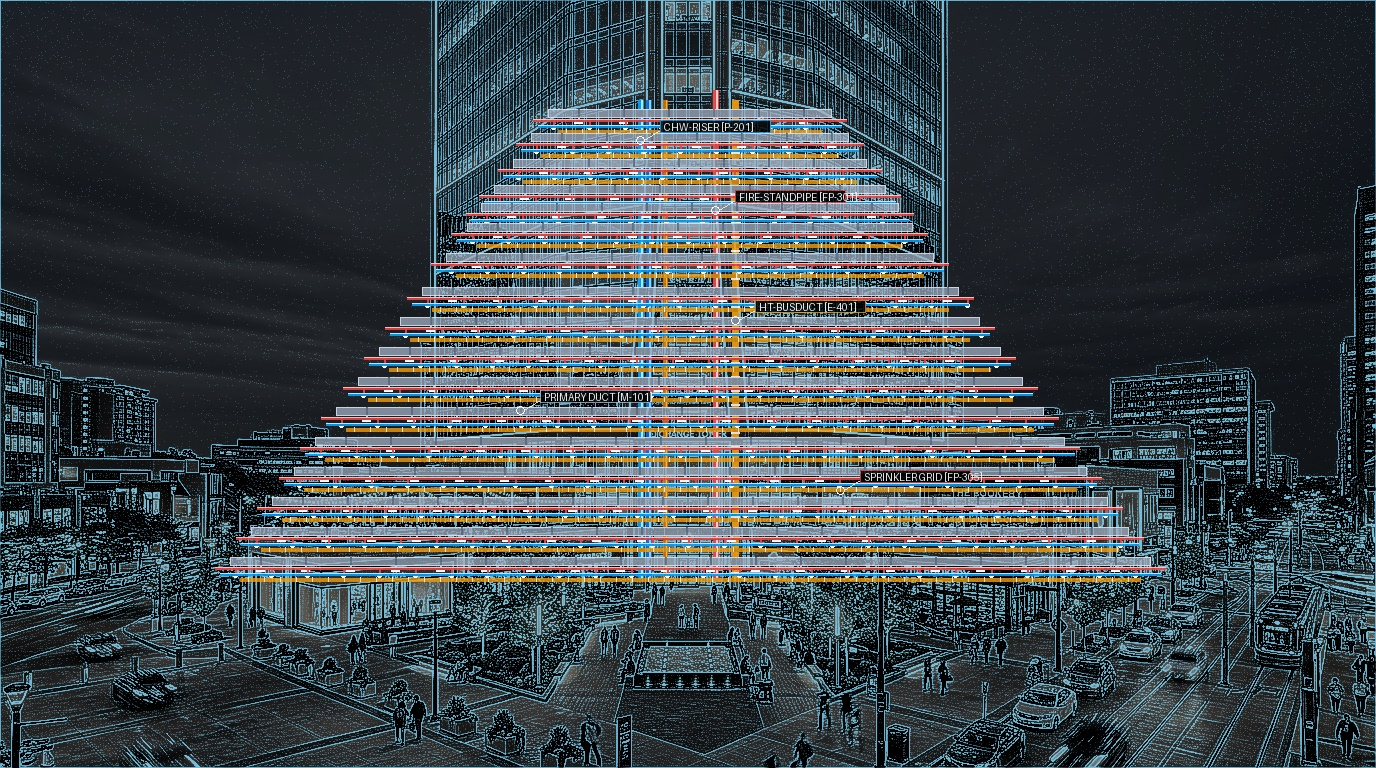
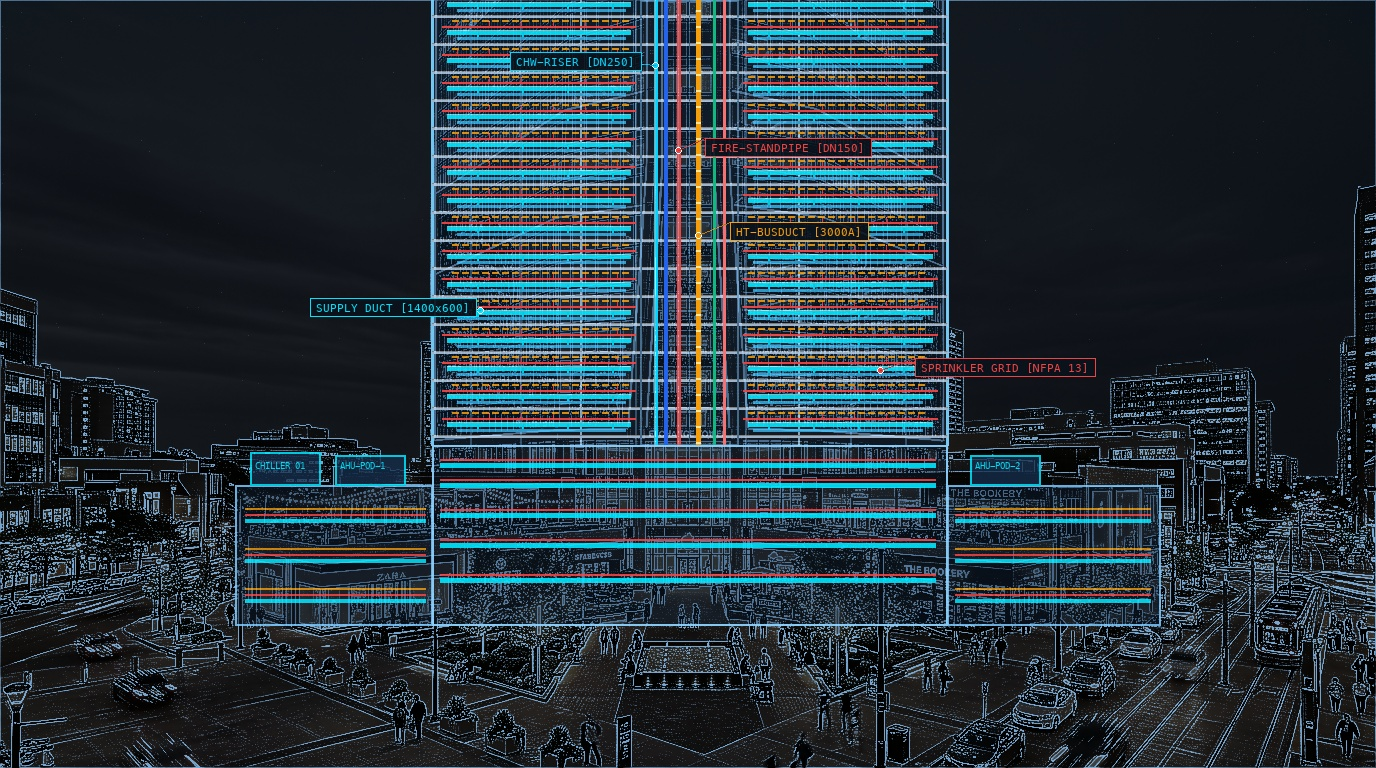
Fix skeleton building shape to true skyscraper profile and synchronize laser scanning animation with phase-locked HUD

diff --git a/css/styles.css b/css/styles.css
@@ -776,8 +776,10 @@ button, input, select, textarea {
   height: 100%;
   z-index: 4;
   clip-path: inset(0 0 100% 0);
-  animation: skeletonScanReveal 7s cubic-bezier(0.4, 0, 0.2, 1) infinite;
+  -webkit-clip-path: inset(0 0 100% 0);
+  animation: skeletonScanReveal 6.5s cubic-bezier(0.4, 0, 0.2, 1) infinite;
   pointer-events: none;
+  will-change: clip-path;
 }
 
 .spotlight-skeleton-image {
@@ -785,7 +787,7 @@ button, input, select, textarea {
   height: 100%;
   object-fit: cover;
   display: block;
-  filter: brightness(1.02) contrast(1.12);
+  filter: brightness(1.05) contrast(1.15);
 }
 
 /* High-Tech Laser Beam Scanner Line */
@@ -793,11 +795,12 @@ button, input, select, textarea {
   position: absolute;
   left: 0;
   right: 0;
-  top: 0;
-  height: 0;
+  top: 0%;
+  height: 3px;
   pointer-events: none;
-  z-index: 8;
-  animation: laserBeamMove 7s cubic-bezier(0.4, 0, 0.2, 1) infinite;
+  z-index: 25;
+  animation: laserBeamMove 6.5s cubic-bezier(0.4, 0, 0.2, 1) infinite;
+  will-change: top, opacity;
 }
 
 .spotlight-laser-line {
@@ -805,33 +808,33 @@ button, input, select, textarea {
   top: 0;
   left: 0;
   right: 0;
-  height: 2.5px;
+  height: 3px;
   background: linear-gradient(90deg, 
     transparent 0%, 
-    var(--color-copper) 12%, 
+    #00E5FF 12%, 
     #FFFFFF 50%, 
-    var(--color-copper) 88%, 
+    #00E5FF 88%, 
     transparent 100%
   );
-  box-shadow: 0 0 12px #FFFFFF, 0 0 24px var(--color-copper), 0 0 35px rgba(201, 147, 90, 0.85);
+  box-shadow: 0 0 12px #FFFFFF, 0 0 24px #00E5FF, 0 0 35px rgba(0, 229, 255, 0.85);
 }
 
 .spotlight-laser-glow {
   position: absolute;
-  bottom: 0;
+  top: -14px;
   left: 0;
   right: 0;
-  height: 32px;
-  background: linear-gradient(0deg, rgba(201, 147, 90, 0.22) 0%, transparent 100%);
+  height: 30px;
+  background: linear-gradient(180deg, rgba(0, 229, 255, 0.22) 0%, transparent 100%);
   pointer-events: none;
 }
 
 .spotlight-laser-tag {
   position: absolute;
   right: 12px;
-  top: -12px;
+  top: -14px;
   background: #000000;
-  border: 1px solid var(--color-copper);
+  border: 1px solid #00E5FF;
   color: #FFFFFF;
   font-family: var(--font-mono);
   font-size: 9px;
@@ -850,33 +853,34 @@ button, input, select, textarea {
   width: 5px;
   height: 5px;
   border-radius: 50%;
-  background: #10B981;
-  box-shadow: 0 0 6px #10B981;
+  background: #00E5FF;
+  box-shadow: 0 0 6px #00E5FF;
   animation: beaconPulse 1.2s infinite ease-in-out;
 }
 
-/* Synchronized Keyframes for Laser Beam & Skeleton Reveal */
+/* 100% Synchronized Keyframes for Laser Beam & Skeleton Reveal */
 @keyframes laserBeamMove {
   0% {
     top: 0%;
     opacity: 0;
   }
-  4% {
+  3% {
+    top: 0%;
     opacity: 1;
   }
-  45% {
-    top: 100%;
+  47% {
+    top: calc(100% - 3px);
     opacity: 1;
   }
   50% {
-    top: 100%;
-    opacity: 0.85;
-  }
-  55% {
-    top: 100%;
+    top: calc(100% - 3px);
     opacity: 1;
   }
-  95% {
+  53% {
+    top: calc(100% - 3px);
+    opacity: 1;
+  }
+  97% {
     top: 0%;
     opacity: 1;
   }
@@ -887,14 +891,17 @@ button, input, select, textarea {
 }
 
 @keyframes skeletonScanReveal {
-  0%, 4% {
+  0%, 3% {
     clip-path: inset(0 0 100% 0);
+    -webkit-clip-path: inset(0 0 100% 0);
   }
-  45%, 55% {
+  47%, 53% {
     clip-path: inset(0 0 0% 0);
+    -webkit-clip-path: inset(0 0 0% 0);
   }
-  95%, 100% {
+  97%, 100% {
     clip-path: inset(0 0 100% 0);
+    -webkit-clip-path: inset(0 0 100% 0);
   }
 }
 

diff --git a/js/main.js b/js/main.js
@@ -728,17 +728,45 @@ document.addEventListener('DOMContentLoaded', () => {
     }
   }
 
-  // --- 14. Hero Scanner HUD Indicator Switcher ---
+  // --- 14. Hero Scanner HUD Indicator Switcher (Phase-Locked to CSS Animation) ---
+  const laserBeam = document.querySelector('.spotlight-laser-beam');
   const heroScanLabel = document.getElementById('heroScanLabel');
-  if (heroScanLabel) {
-    let scanPhase = false;
-    setInterval(() => {
-      scanPhase = !scanPhase;
-      if (scanPhase) {
-        heroScanLabel.innerHTML = '<span style="display:inline-block;width:6px;height:6px;border-radius:50%;background:#10B981;"></span><span>SCAN: MEP SKELETON (PLUMBING &amp; HVAC)</span>';
-      } else {
-        heroScanLabel.innerHTML = '<span style="display:inline-block;width:6px;height:6px;border-radius:50%;background:var(--color-copper);"></span><span>SCAN: ARCHITECTURAL EXTERIOR</span>';
+  const laserTagText = document.querySelector('.laser-tag-text');
+
+  if (laserBeam && heroScanLabel) {
+    let anim = null;
+    const getAnim = () => {
+      if (!anim && laserBeam.getAnimations) {
+        const anims = laserBeam.getAnimations();
+        if (anims.length > 0) anim = anims[0];
       }
-    }, 3500);
+      return anim;
+    };
+
+    let lastMode = '';
+    const updateHUD = () => {
+      const activeAnim = getAnim();
+      let isDownSweep = true;
+      if (activeAnim && typeof activeAnim.currentTime === 'number') {
+        const cycle = activeAnim.currentTime % 6500;
+        isDownSweep = cycle < 3250;
+      } else {
+        isDownSweep = (Date.now() % 6500) < 3250;
+      }
+
+      const currentMode = isDownSweep ? 'skeleton' : 'exterior';
+      if (currentMode !== lastMode) {
+        lastMode = currentMode;
+        if (isDownSweep) {
+          heroScanLabel.innerHTML = '<span class="hud-mode-dot" style="background:#00E5FF;box-shadow:0 0 8px #00E5FF;"></span><span>SCAN: MEP BIM SKELETON</span>';
+          if (laserTagText) laserTagText.textContent = 'MEP SCAN ACTIVE';
+        } else {
+          heroScanLabel.innerHTML = '<span class="hud-mode-dot" style="background:var(--color-copper);box-shadow:0 0 8px var(--color-copper);"></span><span>SCAN: ARCHITECTURAL EXTERIOR</span>';
+          if (laserTagText) laserTagText.textContent = 'EXTERIOR RESTORE';
+        }
+      }
+    };
+
+    setInterval(updateHUD, 100);
   }
 });

diff --git a/index.html b/index.html
@@ -20,7 +20,7 @@
   <link rel="preconnect" href="https://fonts.gstatic.com" crossorigin>
   <link href="https://fonts.googleapis.com/css2?family=Source+Code+Pro:wght@400;500;600;700&family=Source+Sans+3:ital,wght@0,300;0,400;0,500;0,600;0,700;0,800;0,900;1,300;1,400;1,600;1,700&family=Source+Sans+Pro:ital,wght@0,300;0,400;0,600;0,700;0,900;1,300;1,400;1,600;1,700&display=swap" rel="stylesheet">
 
-  <link rel="stylesheet" href="css/styles.css?v=36.0">
+  <link rel="stylesheet" href="css/styles.css?v=37.0">
 </head>
 <body>
 
@@ -195,7 +195,7 @@
 
             <!-- Internal MEP Engineering Skeleton Layer (Plumbing, HVAC, Electrical) -->
             <div class="spotlight-skeleton-wrapper" aria-hidden="true">
-              <img src="assets/project-commercial-skeleton.jpg?v=2.0" alt="Commercial office building 3D MEP BIM internal engineering skeleton showing plumbing and HVAC" class="spotlight-skeleton-image">
+              <img src="assets/project-commercial-skeleton.jpg?v=3.0" alt="Exchange Tower commercial building 3D MEP BIM internal engineering skeleton showing plumbing, HVAC ducts and fire protection" class="spotlight-skeleton-image">
             </div>
 
             <!-- Animated Laser Scanner Line with Beam Aura -->
@@ -209,10 +209,10 @@
             </div>
 
             <!-- HUD Scan Status Overlay -->
-            <div class="spotlight-hud-overlay">
+            <div class="spotlight-hud-overlay" aria-hidden="true">
               <span class="spotlight-hud-mode" id="heroScanLabel">
-                <span style="display:inline-block;width:6px;height:6px;border-radius:50%;background:#10B981;"></span>
-                <span>SCAN: MEP SKELETON</span>
+                <span class="hud-mode-dot"></span>
+                <span class="hud-mode-text">SCAN: MEP BIM SKELETON</span>
               </span>
               <span class="spotlight-hud-status">LOD 350 BIM</span>
             </div>
@@ -856,6 +856,6 @@
   </div>
 
   <!-- Scripts -->
-  <script src="js/main.js?v=35.0"></script>
+  <script src="js/main.js?v=36.0"></script>
 </body>
 </html>

diff --git a/career.html b/career.html
@@ -16,7 +16,7 @@
   <link rel="preconnect" href="https://fonts.gstatic.com" crossorigin>
   <link href="https://fonts.googleapis.com/css2?family=Source+Code+Pro:wght@400;500;600;700&family=Source+Sans+3:ital,wght@0,300;0,400;0,500;0,600;0,700;0,800;0,900;1,300;1,400;1,600;1,700&family=Source+Sans+Pro:ital,wght@0,300;0,400;0,600;0,700;0,900;1,300;1,400;1,600;1,700&display=swap" rel="stylesheet">
 
-  <link rel="stylesheet" href="css/styles.css?v=36.0">
+  <link rel="stylesheet" href="css/styles.css?v=37.0">
 </head>
 <body>
 
@@ -241,6 +241,6 @@
   </footer>
 
   <button class="back-to-top"><svg width="20" height="20" viewBox="0 0 24 24" fill="currentColor"><path d="M7.41 15.41L12 10.83l4.59 4.58L18 14l-6-6-6 6z"/></svg></button>
-  <script src="js/main.js?v=35.0"></script>
+  <script src="js/main.js?v=36.0"></script>
 </body>
 </html>

diff --git a/contact.html b/contact.html
@@ -17,7 +17,7 @@
   <link rel="preconnect" href="https://fonts.gstatic.com" crossorigin>
   <link href="https://fonts.googleapis.com/css2?family=Source+Code+Pro:wght@400;500;600;700&family=Source+Sans+3:ital,wght@0,300;0,400;0,500;0,600;0,700;0,800;0,900;1,300;1,400;1,600;1,700&family=Source+Sans+Pro:ital,wght@0,300;0,400;0,600;0,700;0,900;1,300;1,400;1,600;1,700&display=swap" rel="stylesheet">
 
-  <link rel="stylesheet" href="css/styles.css?v=36.0">
+  <link rel="stylesheet" href="css/styles.css?v=37.0">
 </head>
 <body>
 
@@ -325,6 +325,6 @@
   </footer>
 
   <button class="back-to-top"><svg width="20" height="20" viewBox="0 0 24 24" fill="currentColor"><path d="M7.41 15.41L12 10.83l4.59 4.58L18 14l-6-6-6 6z"/></svg></button>
-  <script src="js/main.js?v=35.0"></script>
+  <script src="js/main.js?v=36.0"></script>
 </body>
 </html>

diff --git a/about.html b/about.html
@@ -17,7 +17,7 @@
   <link rel="preconnect" href="https://fonts.gstatic.com" crossorigin>
   <link href="https://fonts.googleapis.com/css2?family=Source+Code+Pro:wght@400;500;600;700&family=Source+Sans+3:ital,wght@0,300;0,400;0,500;0,600;0,700;0,800;0,900;1,300;1,400;1,600;1,700&family=Source+Sans+Pro:ital,wght@0,300;0,400;0,600;0,700;0,900;1,300;1,400;1,600;1,700&display=swap" rel="stylesheet">
 
-  <link rel="stylesheet" href="css/styles.css?v=36.0">
+  <link rel="stylesheet" href="css/styles.css?v=37.0">
 </head>
 <body>
 
@@ -371,6 +371,6 @@
   </div>
 
   <button class="back-to-top"><svg width="20" height="20" viewBox="0 0 24 24" fill="currentColor"><path d="M7.41 15.41L12 10.83l4.59 4.58L18 14l-6-6-6 6z"/></svg></button>
-  <script src="js/main.js?v=35.0"></script>
+  <script src="js/main.js?v=36.0"></script>
 </body>
 </html>

diff --git a/blog.html b/blog.html
@@ -16,7 +16,7 @@
   <link rel="preconnect" href="https://fonts.gstatic.com" crossorigin>
   <link href="https://fonts.googleapis.com/css2?family=Source+Code+Pro:wght@400;500;600;700&family=Source+Sans+3:ital,wght@0,300;0,400;0,500;0,600;0,700;0,800;0,900;1,300;1,400;1,600;1,700&family=Source+Sans+Pro:ital,wght@0,300;0,400;0,600;0,700;0,900;1,300;1,400;1,600;1,700&display=swap" rel="stylesheet">
 
-  <link rel="stylesheet" href="css/styles.css?v=36.0">
+  <link rel="stylesheet" href="css/styles.css?v=37.0">
 </head>
 <body>
 
@@ -373,6 +373,6 @@
   </div>
 
   <button class="back-to-top"><svg width="20" height="20" viewBox="0 0 24 24" fill="currentColor"><path d="M7.41 15.41L12 10.83l4.59 4.58L18 14l-6-6-6 6z"/></svg></button>
-  <script src="js/main.js?v=35.0"></script>
+  <script src="js/main.js?v=36.0"></script>
 </body>
 </html>

diff --git a/faqs.html b/faqs.html
@@ -17,7 +17,7 @@
   <link rel="preconnect" href="https://fonts.gstatic.com" crossorigin>
   <link href="https://fonts.googleapis.com/css2?family=Source+Code+Pro:wght@400;500;600;700&family=Source+Sans+3:ital,wght@0,300;0,400;0,500;0,600;0,700;0,800;0,900;1,300;1,400;1,600;1,700&family=Source+Sans+Pro:ital,wght@0,300;0,400;0,600;0,700;0,900;1,300;1,400;1,600;1,700&display=swap" rel="stylesheet">
 
-  <link rel="stylesheet" href="css/styles.css?v=36.0">
+  <link rel="stylesheet" href="css/styles.css?v=37.0">
 </head>
 <body>
 
@@ -456,6 +456,6 @@
   </div>
 
   <button class="back-to-top"><svg width="20" height="20" viewBox="0 0 24 24" fill="currentColor"><path d="M7.41 15.41L12 10.83l4.59 4.58L18 14l-6-6-6 6z"/></svg></button>
-  <script src="js/main.js?v=35.0"></script>
+  <script src="js/main.js?v=36.0"></script>
 </body>
 </html>

diff --git a/portfolio.html b/portfolio.html
@@ -17,7 +17,7 @@
   <link rel="preconnect" href="https://fonts.gstatic.com" crossorigin>
   <link href="https://fonts.googleapis.com/css2?family=Source+Code+Pro:wght@400;500;600;700&family=Source+Sans+3:ital,wght@0,300;0,400;0,500;0,600;0,700;0,800;0,900;1,300;1,400;1,600;1,700&family=Source+Sans+Pro:ital,wght@0,300;0,400;0,600;0,700;0,900;1,300;1,400;1,600;1,700&display=swap" rel="stylesheet">
 
-  <link rel="stylesheet" href="css/styles.css?v=36.0">
+  <link rel="stylesheet" href="css/styles.css?v=37.0">
 </head>
 <body>
 
@@ -465,6 +465,6 @@
   </div>
 
   <button class="back-to-top"><svg width="20" height="20" viewBox="0 0 24 24" fill="currentColor"><path d="M7.41 15.41L12 10.83l4.59 4.58L18 14l-6-6-6 6z"/></svg></button>
-  <script src="js/main.js?v=35.0"></script>
+  <script src="js/main.js?v=36.0"></script>
 </body>
 </html>

diff --git a/process.html b/process.html
@@ -17,7 +17,7 @@
   <link rel="preconnect" href="https://fonts.gstatic.com" crossorigin>
   <link href="https://fonts.googleapis.com/css2?family=Source+Code+Pro:wght@400;500;600;700&family=Source+Sans+3:ital,wght@0,300;0,400;0,500;0,600;0,700;0,800;0,900;1,300;1,400;1,600;1,700&family=Source+Sans+Pro:ital,wght@0,300;0,400;0,600;0,700;0,900;1,300;1,400;1,600;1,700&display=swap" rel="stylesheet">
 
-  <link rel="stylesheet" href="css/styles.css?v=36.0">
+  <link rel="stylesheet" href="css/styles.css?v=37.0">
 </head>
 <body>
 
@@ -409,6 +409,6 @@
   </div>
 
   <button class="back-to-top"><svg width="20" height="20" viewBox="0 0 24 24" fill="currentColor"><path d="M7.41 15.41L12 10.83l4.59 4.58L18 14l-6-6-6 6z"/></svg></button>
-  <script src="js/main.js?v=35.0"></script>
+  <script src="js/main.js?v=36.0"></script>
 </body>
 </html>

diff --git a/sectors.html b/sectors.html
@@ -17,7 +17,7 @@
   <link rel="preconnect" href="https://fonts.gstatic.com" crossorigin>
   <link href="https://fonts.googleapis.com/css2?family=Source+Code+Pro:wght@400;500;600;700&family=Source+Sans+3:ital,wght@0,300;0,400;0,500;0,600;0,700;0,800;0,900;1,300;1,400;1,600;1,700&family=Source+Sans+Pro:ital,wght@0,300;0,400;0,600;0,700;0,900;1,300;1,400;1,600;1,700&display=swap" rel="stylesheet">
 
-  <link rel="stylesheet" href="css/styles.css?v=36.0">
+  <link rel="stylesheet" href="css/styles.css?v=37.0">
 </head>
 <body>
 
@@ -457,6 +457,6 @@
   </div>
 
   <button class="back-to-top"><svg width="20" height="20" viewBox="0 0 24 24" fill="currentColor"><path d="M7.41 15.41L12 10.83l4.59 4.58L18 14l-6-6-6 6z"/></svg></button>
-  <script src="js/main.js?v=35.0"></script>
+  <script src="js/main.js?v=36.0"></script>
 </body>
 </html>

diff --git a/services-3d-rendering.html b/services-3d-rendering.html
@@ -18,7 +18,7 @@
   <link rel="preconnect" href="https://fonts.gstatic.com" crossorigin>
   <link href="https://fonts.googleapis.com/css2?family=Source+Code+Pro:wght@400;500;600;700&family=Source+Sans+3:ital,wght@0,300;0,400;0,500;0,600;0,700;0,800;0,900;1,300;1,400;1,600;1,700&family=Source+Sans+Pro:ital,wght@0,300;0,400;0,600;0,700;0,900;1,300;1,400;1,600;1,700&display=swap" rel="stylesheet">
 
-  <link rel="stylesheet" href="css/styles.css?v=36.0">
+  <link rel="stylesheet" href="css/styles.css?v=37.0">
 </head>
 <body>
 
@@ -349,6 +349,6 @@
   </div>
 
   <button class="back-to-top"><svg width="20" height="20" viewBox="0 0 24 24" fill="currentColor"><path d="M7.41 15.41L12 10.83l4.59 4.58L18 14l-6-6-6 6z"/></svg></button>
-  <script src="js/main.js?v=35.0"></script>
+  <script src="js/main.js?v=36.0"></script>
 </body>
 </html>
